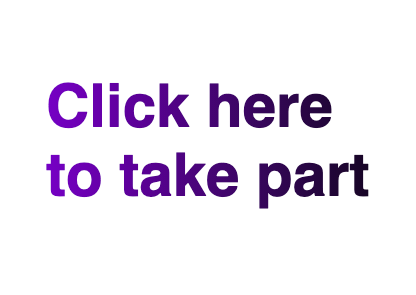
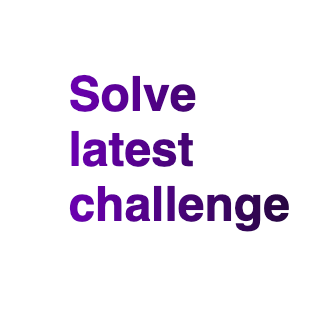
updated lastest challenge and winner

Changed region(s): [[0.0896, 0.2136, 0.8955, 0.7322]]

diff --git a/index.html b/index.html
@@ -16,10 +16,10 @@
 
     <div class="page-container">
         <header>
-            <a role="button" rel="noopener" href="https://www.polltab.com/9nGPOAHAM3o" class="btn btn-poll" data-tooltip="Vote closes 5:15pm July 19th" target="_blank">Vote here!</a>
+            <!-- <a role="button" rel="noopener" href="https://www.polltab.com/9nGPOAHAM3o" class="btn btn-poll" data-tooltip="Vote closes 5:15pm July 19th" target="_blank">Vote here!</a> -->
             <img class="logo" src="../../../imgs/scrimba-black.svg" alt="scrimba-logo">
             <h1>Weekly Web Dev Challenge Submissions</h1>
-            <p class="subtitle"><a href="https://scrimba.com/learn/weeklychallenge/the-weekly-web-dev-challenge-social-media-for-cats-latest-challenge-cocc242f0a342bdb545d6b69d">CatBasket - Social Media for Cats</a></p>
+            <p class="subtitle"><a href="https://scrimba.com/learn/weeklychallenge/the-weekly-web-dev-challenge-social-media-for-cats-latest-challenge-cocc242f0a342bdb545d6b69d">Energy Meter 🔋</a> - vote opens 1pm BST Monday July 26th</p>
             <!-- <span> - vote opens 1pm July 19th</span> goes inside above paragraph -->
             
         </header>
@@ -30,7 +30,7 @@
             <!-- take part and prev challenges below -->
 
             <div class="submission take-part">
-                <a role="button" rel="noopener" href="https://scrimba.com/learn/weeklychallenge/the-weekly-web-dev-challenge-social-media-for-cats-latest-challenge-cocc242f0a342bdb545d6b69d" target="_blank">
+                <a role="button" rel="noopener" href="https://scrimba.com/learn/weeklychallenge/the-weekly-web-dev-challenge-energy-meter-latest-challenge-co8194b6da41343979d7adaf6" target="_blank">
                     <img class="submission-img" src="imgs/take_part.png" alt="Click here to take part"/>
                 </a>
             </div>

diff --git a/prev_challenges/accessibility/accessibility.html b/prev_challenges/accessibility/accessibility.html
@@ -33,7 +33,7 @@
 
             <div class="submission take-part">
                 <a role="button" rel="noopener"
-                    href="https://scrimba.com/learn/weeklychallenge/the-weekly-web-dev-challenge-social-media-for-cats-latest-challenge-cocc242f0a342bdb545d6b69d"
+                    href="https://scrimba.com/learn/weeklychallenge/the-weekly-web-dev-challenge-energy-meter-latest-challenge-co8194b6da41343979d7adaf6"
                     target="_blank">
                     <img class="submission-img" src="/imgs/take_part.png" alt="Click here to take part" />
                 </a>
